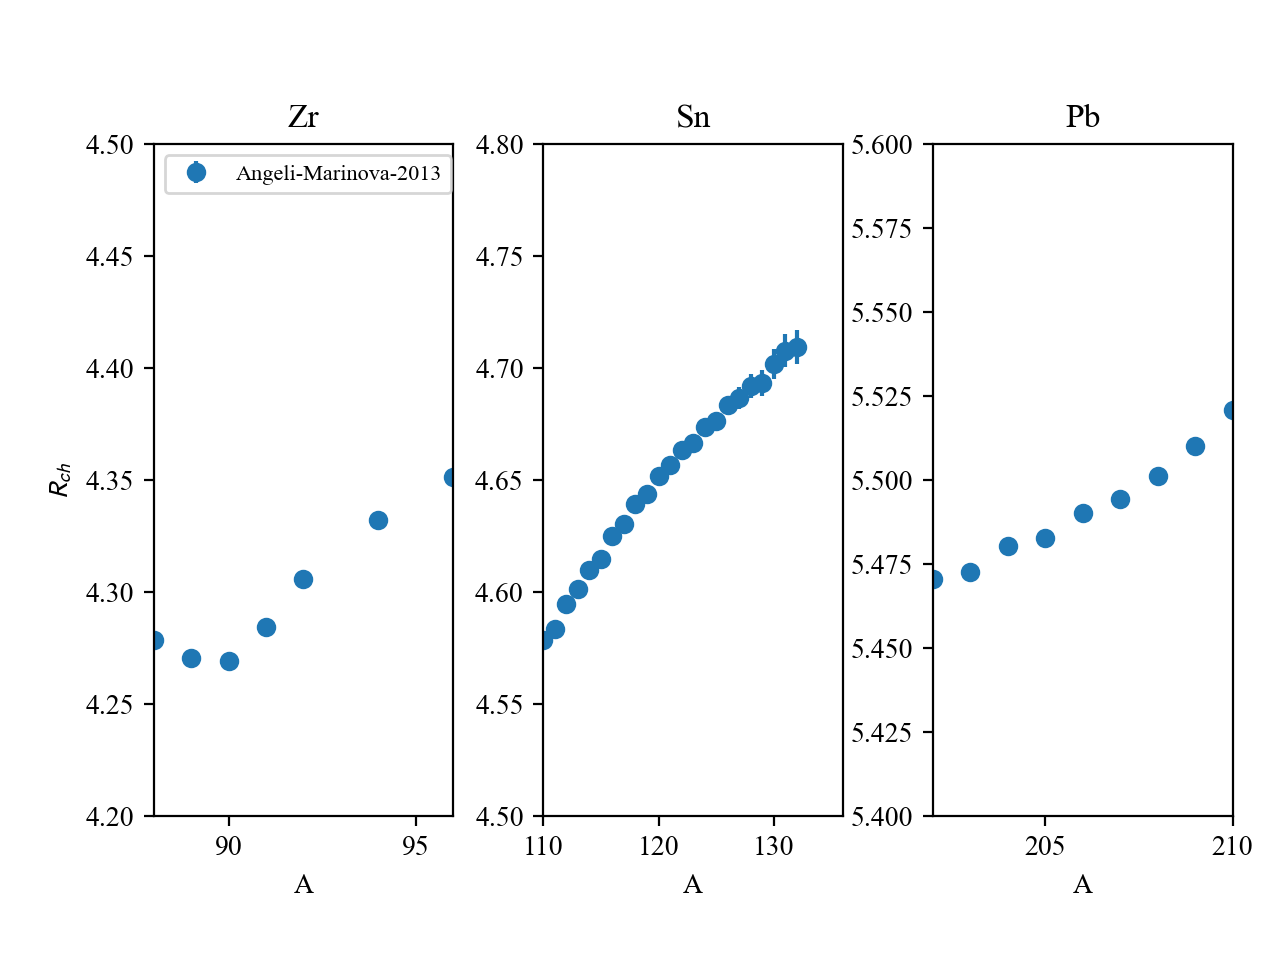
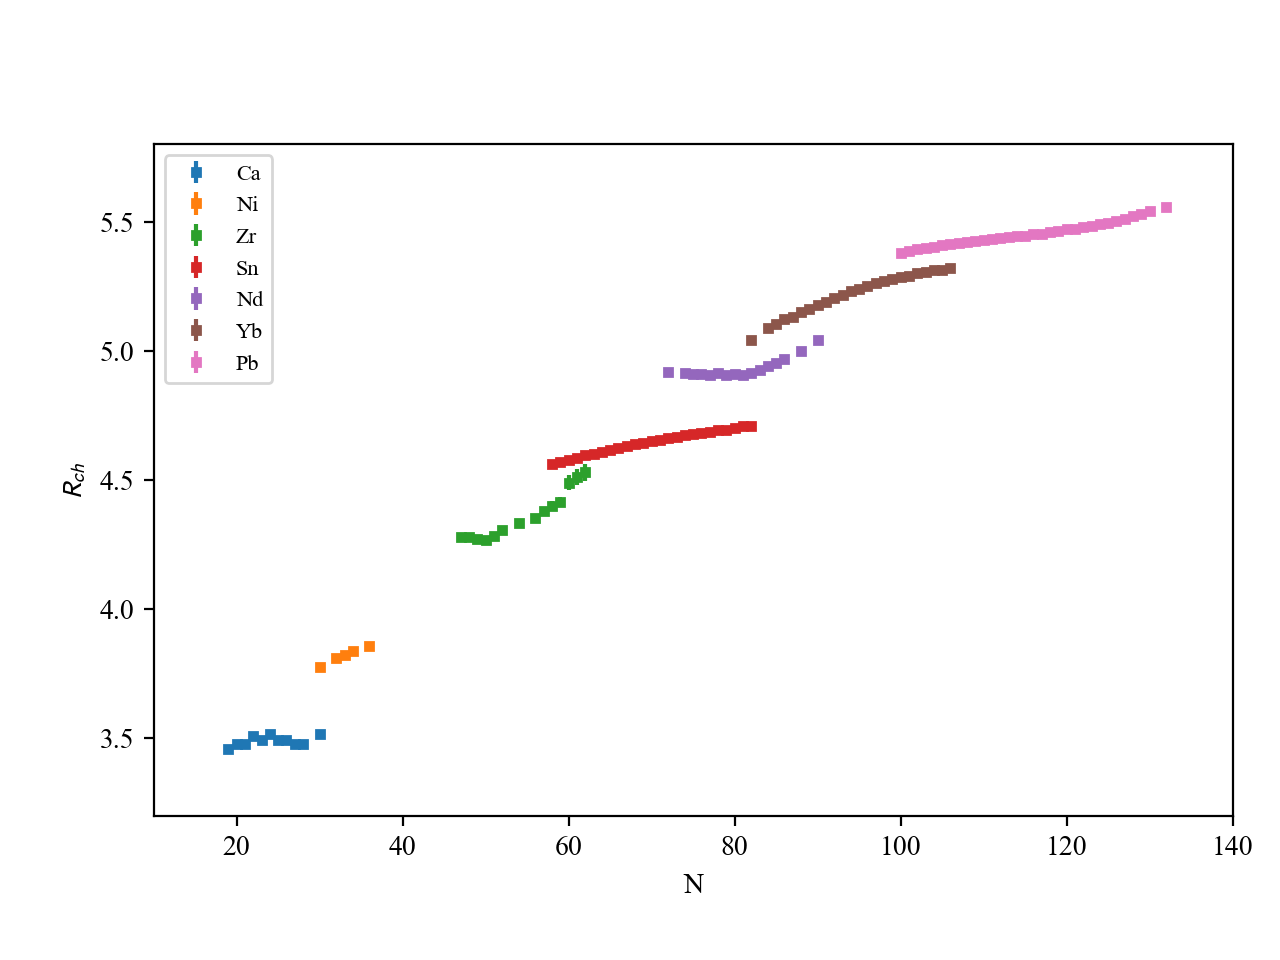
setup empirical formulae for Rch

diff --git a/version-0.2/nucleardatapy/fig/nuc_setupRchTheo_fig.py b/version-0.2/nucleardatapy/fig/nuc_setupRchTheo_fig.py
@@ -28,28 +28,54 @@ def nuc_setupRchTheo_fig( pname, tables, table_exp ):
     fig.tight_layout() # Or equivalently,  "plt.tight_layout()"
     fig.subplots_adjust(left=0.12, bottom=0.15, right=None, top=0.9, wspace=0.35, hspace=0.3)
     #
-    axs[0].set_ylabel(r'$R_{ch}$')
-    axs[0].set_xlabel(r'A')
-    axs[0].set_xlim([10, 220])
-    axs[0].set_ylim([4.2, 5.8])
+    axs.set_ylabel(r'$R_{ch}$')
+    axs.set_xlabel(r'N')
+    axs.set_xlim([10, 160])
+    axs.set_ylim([3.0, 6.5])
     #
     Zrefs = [ 20, 28, 40, 50, 60, 70, 82, 90 ]
     #
-    for table in tables:
+    for indZ,Zref in enumerate(Zrefs):
+        rchExpIsot = nuda.nuc.setupRchExpIsotopes( rch_exp, Zref = Zref )
+        if indZ == 0:
+            axs.errorbar( rchExpIsot.N, rchExpIsot.Rch, yerr=rchExpIsot.Rch_err, color='k', fmt='s', markersize=3, label=table_exp )
+            axs.plot( rchExpIsot.N, nuda.nuc.rch_emp( rchExpIsot.A, rchExpIsot.Z, 'classic' ), linestyle='dashed', color='k', label='empirical(classic)' )
+            axs.plot( rchExpIsot.N, nuda.nuc.rch_emp( rchExpIsot.A, rchExpIsot.Z, 'NPP-1994' ), linestyle='dashed', color='red', label='empirical(NPP-1994)' )
+            axs.plot( rchExpIsot.N, nuda.nuc.rch_emp( rchExpIsot.A, rchExpIsot.Z, 'BAKS-1-2013' ), linestyle='dotted', color='k', label='empirical(BAKS-1-2013)' )
+            axs.plot( rchExpIsot.N, nuda.nuc.rch_emp( rchExpIsot.A, rchExpIsot.Z, 'BAKS-3-2013' ), linestyle='dotted', color='red', label='empirical(BAKS-3-2013)' )
+        else:
+            axs.errorbar( rchExpIsot.N, rchExpIsot.Rch, yerr=rchExpIsot.Rch_err, color='k', fmt='s', markersize=3 )
+            axs.plot( rchExpIsot.N, nuda.nuc.rch_emp( rchExpIsot.A, rchExpIsot.Z, 'classic' ), linestyle='dashed', color='k' )
+            axs.plot( rchExpIsot.N, nuda.nuc.rch_emp( rchExpIsot.A, rchExpIsot.Z, 'NPP-1994' ), linestyle='dashed', color='red' )
+            axs.plot( rchExpIsot.N, nuda.nuc.rch_emp( rchExpIsot.A, rchExpIsot.Z, 'BAKS-1-2013' ), linestyle='dotted', color='k' )
+            axs.plot( rchExpIsot.N, nuda.nuc.rch_emp( rchExpIsot.A, rchExpIsot.Z, 'BAKS-3-2013' ), linestyle='dotted', color='red' )
+    #
+    for indT,table in enumerate(tables):
         #
         rch = nuda.nuc.setupRchTheo( table = table )
         #
-        for ind,Zref in enumerate(Zrefs):
+        for indZ,Zref in enumerate(Zrefs):
             print('For Zref:',Zref)
             rchIsot = nuda.nuc.setupRchTheoIsotopes( rch, Zref = Zref )
-            axs.plot( rchIsot.A, rchIsot.Rch, label=rch.label )
-            rchExpIsot = nuda.nuc.setupRchExpIsotopes( rch_exp, Zref = Zref )
-            if ind == 7:
-                axs.errorbar( rchExpIsot.A, rchExpIsot.Rch, yerr=rchExpIsot.Rch_err, fmt='o', label=rchExpIsot.label )
+            if indZ == 0:
+                axs.plot( rchIsot.N, rchIsot.Rch, color=nuda.param.col[indT], label=rch.label )
             else:
-                axs.errorbar( rchExpIsot.A, rchExpIsot.Rch, yerr=rchExpIsot.Rch_err, fmt='o' )                
+                axs.plot( rchIsot.N, rchIsot.Rch, color=nuda.param.col[indT] )                
+            #if indT == 0 and indZ == 0:
+            #    axs.plot( rchIsot.N, nuda.nuc.rch_emp( rchIsot.A, rchIsot.Z, 'classic' ), linestyle='dashed', color='k', label='empirical(classic)' )
+            #else:
+            #    axs.plot( rchIsot.N, nuda.nuc.rch_emp( rchIsot.A, rchIsot.Z, 'classic' ), linestyle='dashed', color='k' )
             #
     axs.legend(loc='upper left',fontsize='7',frameon=False)
+    #
+    axs.text( 50,3.7,'Ca')
+    axs.text( 70,4.2,'Ni')
+    axs.text( 95,4.6,'Zr')
+    axs.text(118,5.0,'Sn')
+    axs.text( 50,4.8,'Nd')
+    axs.text( 62,5.1,'Yb')
+    axs.text( 88,5.3,'Pb')
+    axs.text(120,5.7,'Ac')
     #
     if pname is not None:
         plt.savefig(pname, dpi=200)

diff --git a/version-0.2/nucleardatapy/nuc/setup_rch_theo.py b/version-0.2/nucleardatapy/nuc/setup_rch_theo.py
@@ -7,10 +7,32 @@ import nucleardatapy as nuda
 def rch_emp( A, Z, formula ):
    if formula == 'classic':
       return 1.2 * A**0.3333
+   elif formula == '1994-NPP':
+      # B. Nerlo-Pomorska and K. Pomorski, Z. Phys. A 348, 169 (1994)
+      r0 = 1.240
+      b = 0.191
+      c = 1.646
+   elif formula == '2013-BAKS-1':
+      # T. Bayram, S. Akkoyun, S. Okan Kara, A. Sinan, Acta Phys. Pol. B 44, 1791 (2013)
+      r0 = 0.951
+      b = 0.0
+      c = 0.0
+   elif formula == '2013-BAKS-2':
+      # T. Bayram, S. Akkoyun, S. Okan Kara, A. Sinan, Acta Phys. Pol. B 44, 1791 (2013)
+      r0 = 0.996
+      b = 0.278
+      c = 0.0
+   elif formula == '2013-BAKS-3':
+      # T. Bayram, S. Akkoyun, S. Okan Kara, A. Sinan, Acta Phys. Pol. B 44, 1791 (2013)
+      r0 = 0.966
+      b = 0.182
+      c = 1.652
    else:
       print('setup_rch_theo: formula is badly defined ',formula)
       print('setup_rch_theo: exit')
       exit()
+      #return ( 1.19 - 0.8 * (1-2*Z/A)**2 ) * A**0.3333 - 0.3* A**0.1666 
+   return r0 * ( 1.0 - b * (1.0-2.0*Z/A) + c/ A  ) * A**0.3333
 
 def rch_theo_tables():
     """
@@ -237,6 +259,7 @@ class setupRchTheoIsotopes():
             Rchref.append( rch.nucRch[k] )
       self.N = np.array( Nref, dtype = int )
       self.A = np.array( Aref, dtype = int )
+      self.Z = Zref * np.ones( self.N.size )
       self.Rch = np.array( Rchref, dtype = float )
       #
       if nuda.env.verb: print("Exit setupRchExpIsotopes()")

diff --git a/version-0.2/nucleardatapy/fig/nuc_setupRchExp_fig.py b/version-0.2/nucleardatapy/fig/nuc_setupRchExp_fig.py
@@ -27,9 +27,9 @@ def nuc_setupRchExp_fig( pname, tables ):
     fig.subplots_adjust(left=0.12, bottom=0.15, right=None, top=0.85, wspace=0.3, hspace=0.3)
     #
     axs.set_ylabel(r'$R_{ch}$')
-    axs.set_xlabel(r'A')
-    axs.set_xlim([10, 220])
-    axs.set_ylim([4.2, 5.8])
+    axs.set_xlabel(r'N')
+    axs.set_xlim([10, 140])
+    axs.set_ylim([3.2, 5.8])
     #
     Zrefs = [ 20, 28, 40, 50, 60, 70, 82 ]
     #
@@ -40,7 +40,8 @@ def nuc_setupRchExp_fig( pname, tables ):
         for Zref in Zrefs:
             print('For Zref:',Zref)
             rchIsot = nuda.nuc.setupRchExpIsotopes( rch, Zref = Zref )
-            axs.errorbar( rchIsot.N, rchIsot.Rch, yerr=rchIsot.Rch_err, fmt='o', label=rchIsot.label )
+            axs.errorbar( rchIsot.N, rchIsot.Rch, yerr=rchIsot.Rch_err, fmt='s', markersize=3, label=nuda.param.elements[int(Zref)-1] )
+            #axs.errorbar( rchIsot.N, rchIsot.Rch, yerr=rchIsot.Rch_err, fmt='o', label=rchIsot.label )
     #
     #axs.text(0.15,12,r'$K_{sym}$='+str(int(Ksym))+' MeV',fontsize='12')
     axs.legend(loc='upper left',fontsize='8')

diff --git a/version-0.2/nucleardatapy/nuc/setup_rch_exp.py b/version-0.2/nucleardatapy/nuc/setup_rch_exp.py
@@ -194,6 +194,7 @@ class setupRchExpIsotopes():
             Rchref_err.append( rch.nucRch_err[k] )
       self.N = np.array( Nref, dtype = int )
       self.A = np.array( Aref, dtype = int )
+      self.Z = Zref * np.ones( self.N.size )
       self.Rch = np.array( Rchref, dtype = float )
       self.Rch_err = np.array( Rchref_err, dtype = float )
       #
